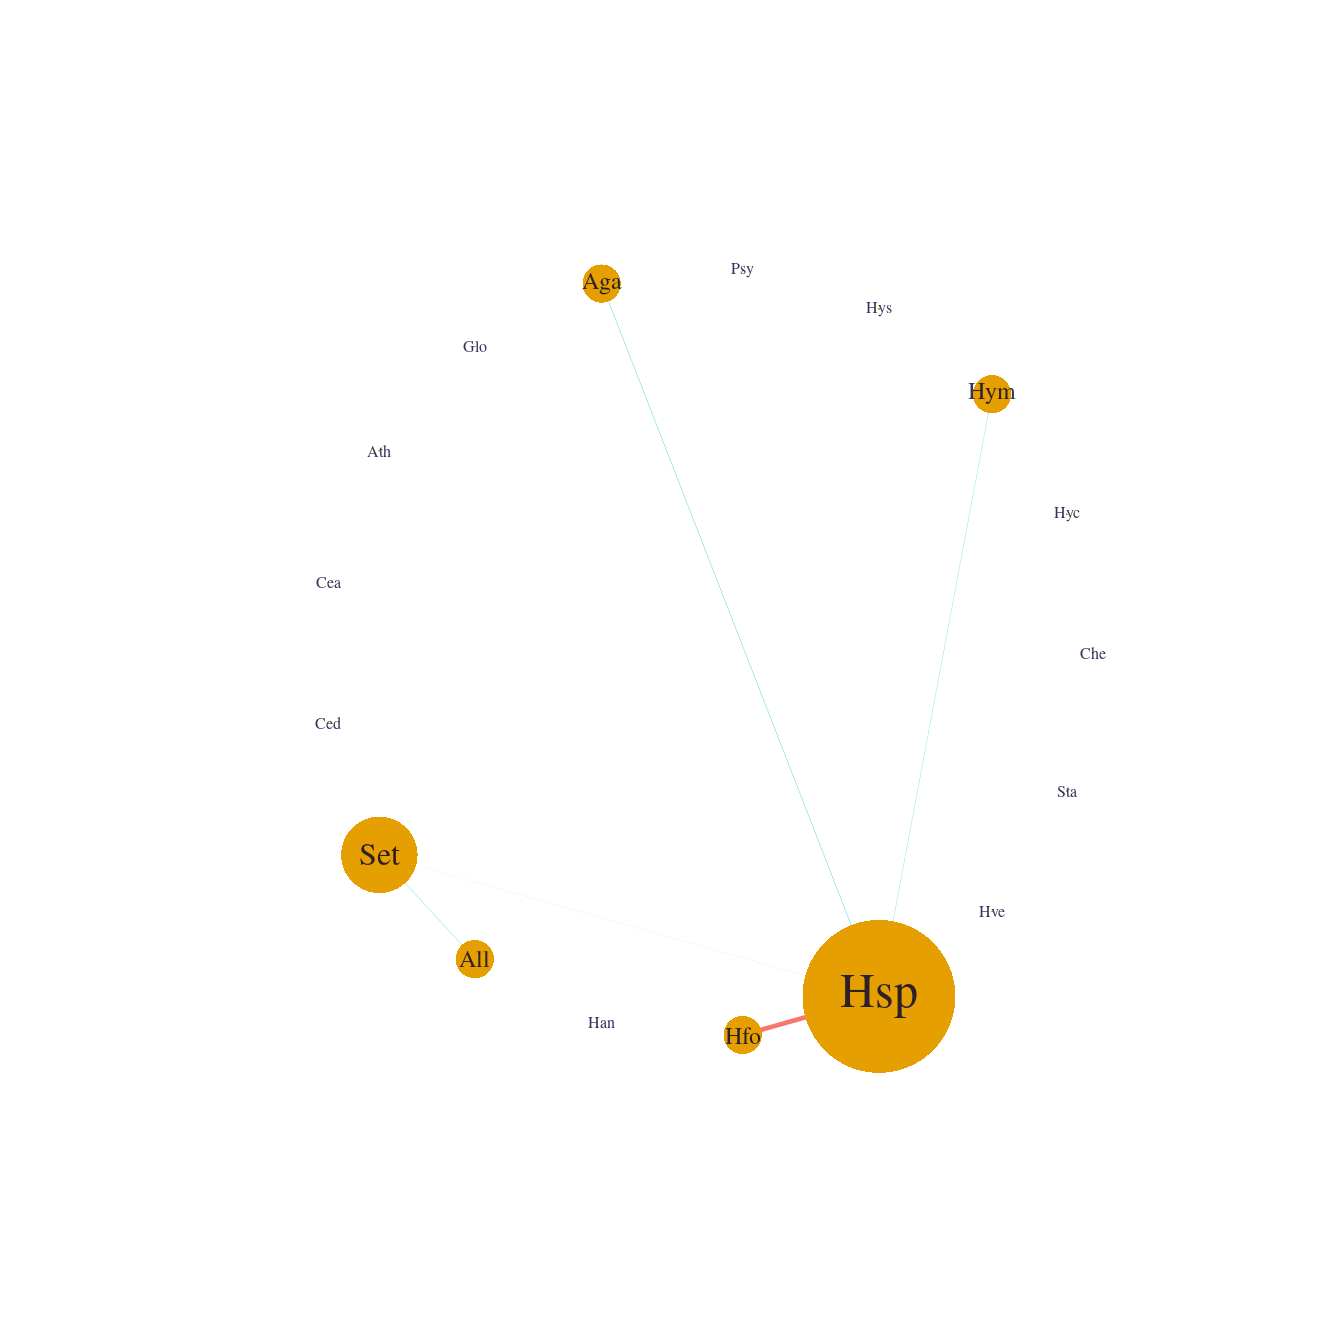
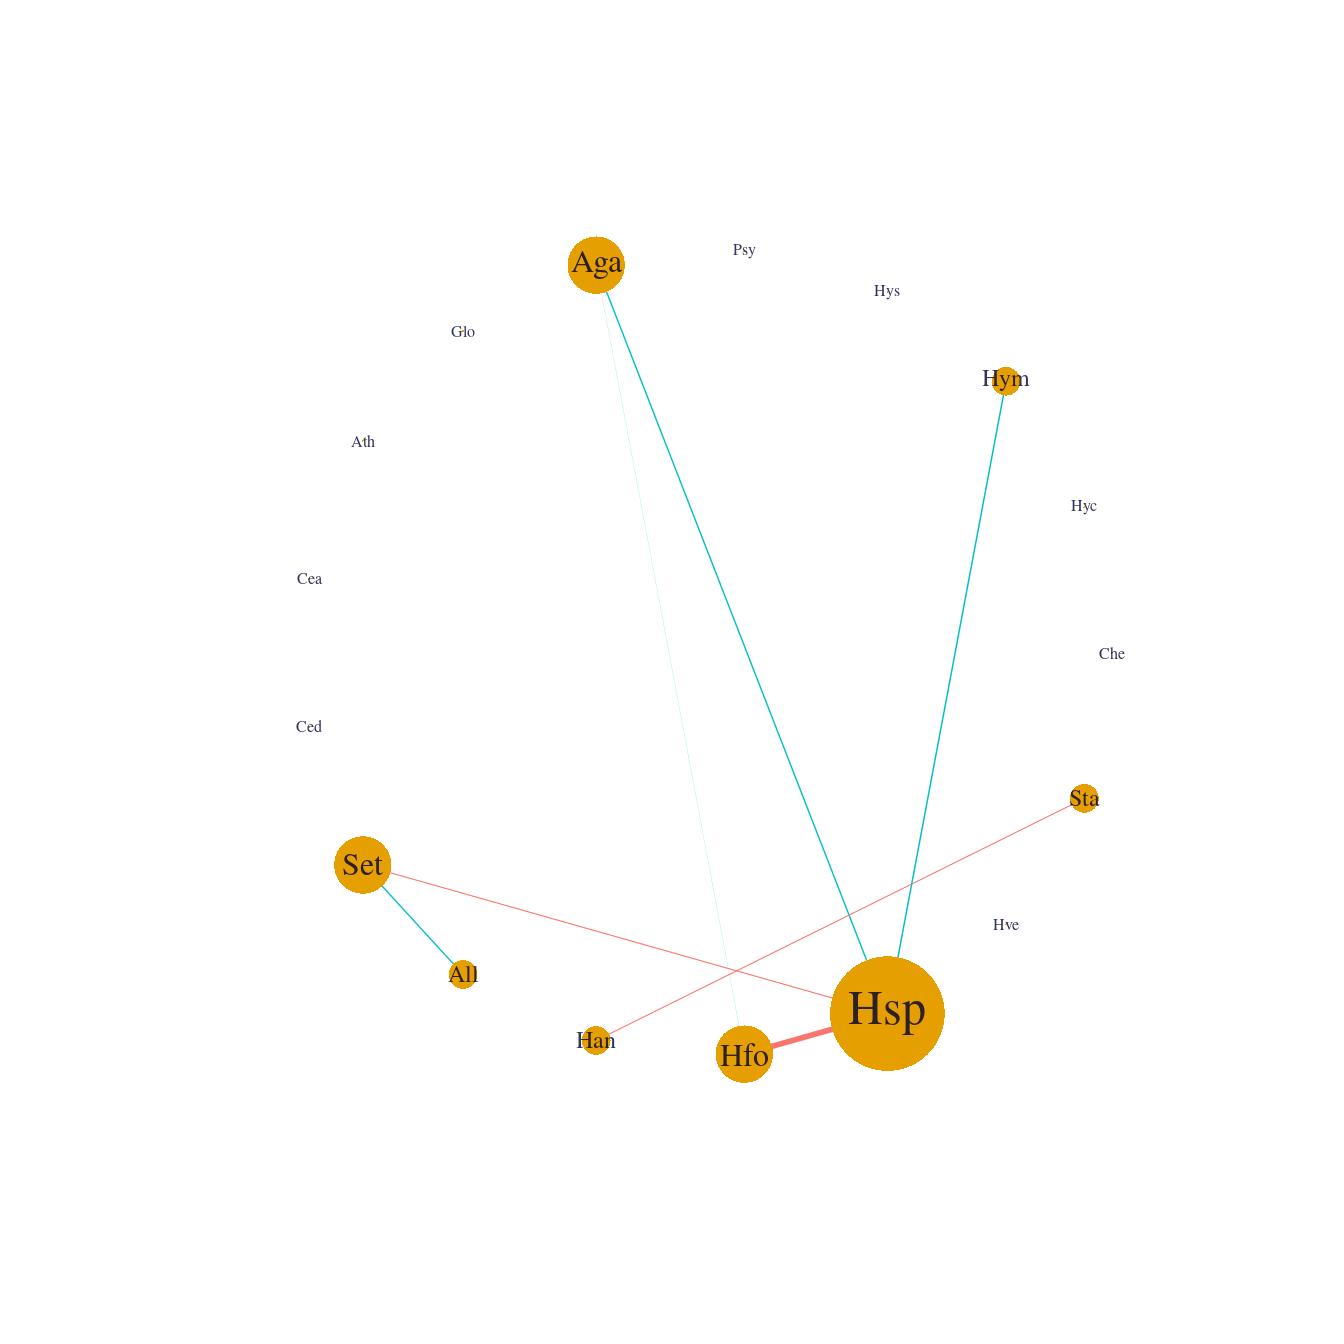
updated docs and bump tags release

diff --git a/docs/articles/PLNnetwork.html b/docs/articles/PLNnetwork.html
@@ -31,7 +31,7 @@
       </button>
       <span class="navbar-brand">
         <a class="navbar-link" href="../index.html">PLNmodels</a>
-        <span class="version label label-default" data-toggle="tooltip" data-placement="bottom" title="Released version">0.7.0.1</span>
+        <span class="version label label-default" data-toggle="tooltip" data-placement="bottom" title="Released version">0.7.0.2</span>
       </span>
     </div>
 
@@ -102,7 +102,7 @@
       <h1>Sparse structure estimation for multivariate count data with PLN-network</h1>
                         <h4 class="author">PLN team</h4>
             
-            <h4 class="date">2019-01-31</h4>
+            <h4 class="date">2019-02-05</h4>
       
       
       <div class="hidden name"><code>PLNnetwork.Rmd</code></div>
@@ -437,12 +437,12 @@
 </h3>
 <p>The variables <code>model_BIC</code>, <code>model_StARS</code> and <code>model_pen</code> are other <code>R6Class</code> objects with class <code>PLNnetworkfit</code>. They all inherits from the class <code>PLNfit</code> and thus own all its methods, with a couple of specific one, mostly for network vizualization purposes. Most fields and methods are recalled when such an object is printed:</p>
 <div class="sourceCode" id="cb17"><pre class="sourceCode r"><code class="sourceCode r"><a class="sourceLine" id="cb17-1" data-line-number="1">model_StARS</a></code></pre></div>
-<pre><code>## Poisson Lognormal with sparse inverse covariance (penalty = 0.805)
+<pre><code>## Poisson Lognormal with sparse inverse covariance (penalty = 0.634)
 ## ==================================================================
-##  degrees_freedom    loglik       BIC       ICL R_squared n_edges     EBIC
-##               22 -1181.992 -1224.802 -2509.354 0.9639262       5 -1233.06
+##  degrees_freedom    loglik       BIC       ICL R_squared n_edges      EBIC
+##               24 -1174.372 -1221.074 -2505.628 0.9639259       7 -1231.458
 ##  pen_loglik    density
-##   -1185.569 0.03460208
+##   -1177.467 0.04844291
 ## ==================================================================
 ## * Useful fields 
 ##     $model_par, $latent, $var_par, $optim_par 
@@ -459,12 +459,12 @@
 <p>Here, an igraph object can be recovered.</p>
 <div class="sourceCode" id="cb20"><pre class="sourceCode r"><code class="sourceCode r"><a class="sourceLine" id="cb20-1" data-line-number="1">my_graph &lt;-<span class="st"> </span><span class="kw"><a href="https://www.rdocumentation.org/packages/graphics/topics/plot">plot</a></span>(model_StARS, <span class="dt">plot =</span> <span class="ot">FALSE</span>)</a>
 <a class="sourceLine" id="cb20-2" data-line-number="2">my_graph</a></code></pre></div>
-<pre><code>## IGRAPH b0d09ac UNW- 17 5 -- 
+<pre><code>## IGRAPH 0ebcdd0 UNW- 17 7 -- 
 ## + attr: name (v/c), label (v/c), label.cex (v/n), size (v/n),
 ## | label.color (v/c), frame.color (v/l), weight (e/n), color (e/c),
 ## | width (e/n)
-## + edges from b0d09ac (vertex names):
-## [1] Hym--Hsp Aga--Hsp Set--All Set--Hsp Hfo--Hsp</code></pre>
+## + edges from 0ebcdd0 (vertex names):
+## [1] Hym--Hsp Aga--Hfo Aga--Hsp Set--All Set--Hsp Han--Sta Hfo--Hsp</code></pre>
 <div class="sourceCode" id="cb22"><pre class="sourceCode r"><code class="sourceCode r"><a class="sourceLine" id="cb22-1" data-line-number="1"><span class="kw"><a href="https://www.rdocumentation.org/packages/graphics/topics/plot">plot</a></span>(model_BIC)</a></code></pre></div>
 <p><img src="PLNnetwork_files/figure-html/partial_corr_network-1.png" width="672"></p>
 <div class="sourceCode" id="cb23"><pre class="sourceCode r"><code class="sourceCode r"><a class="sourceLine" id="cb23-1" data-line-number="1"><span class="kw"><a href="https://www.rdocumentation.org/packages/graphics/topics/plot">plot</a></span>(model_StARS)</a></code></pre></div>

diff --git a/docs/index.html b/docs/index.html
@@ -35,7 +35,7 @@
       </button>
       <span class="navbar-brand">
         <a class="navbar-link" href="index.html">PLNmodels</a>
-        <span class="version label label-default" data-toggle="tooltip" data-placement="bottom" title="Released version">0.7.0.1</span>
+        <span class="version label label-default" data-toggle="tooltip" data-placement="bottom" title="Released version">0.7.0.2</span>
       </span>
     </div>
 
@@ -167,9 +167,9 @@
 <ul>
 <li>For the last tagged release, use</li>
 </ul>
-<div class="sourceCode" id="cb7"><pre class="sourceCode r"><code class="sourceCode r"><a class="sourceLine" id="cb7-1" data-line-number="1">devtools<span class="op">::</span><span class="kw"><a href="https://www.rdocumentation.org/packages/devtools/topics/reexports">install_github</a></span>(<span class="st">"jchiquet/PLNmodels@v0.7.0.1"</span>)</a></code></pre></div>
+<div class="sourceCode" id="cb7"><pre class="sourceCode r"><code class="sourceCode r"><a class="sourceLine" id="cb7-1" data-line-number="1">devtools<span class="op">::</span><span class="kw"><a href="https://www.rdocumentation.org/packages/devtools/topics/reexports">install_github</a></span>(<span class="st">"jchiquet/PLNmodels@v0.7.0.2"</span>)</a></code></pre></div>
 <ul>
-<li><p>Windows users may want to use <a href="https://github.com/jchiquet/PLNmodels/releases/download/v0.7.0.1/PLNmodels_0.7.0.1.zip">the binary version of the package</a></p></li>
+<li><p>Windows users may want to use <a href="https://github.com/jchiquet/PLNmodels/releases/download/v0.7.0.2/PLNmodels_0.7.0.2.zip">the binary version of the package</a></p></li>
 <li><p>For the development version, use</p></li>
 </ul>
 <div class="sourceCode" id="cb8"><pre class="sourceCode r"><code class="sourceCode r"><a class="sourceLine" id="cb8-1" data-line-number="1">devtools<span class="op">::</span><span class="kw"><a href="https://www.rdocumentation.org/packages/devtools/topics/reexports">install_github</a></span>(<span class="st">"jchiquet/PLNmodels"</span>)</a></code></pre></div>

diff --git a/docs/articles/PLNLDA.html b/docs/articles/PLNLDA.html
@@ -31,7 +31,7 @@
       </button>
       <span class="navbar-brand">
         <a class="navbar-link" href="../index.html">PLNmodels</a>
-        <span class="version label label-default" data-toggle="tooltip" data-placement="bottom" title="Released version">0.7.0.1</span>
+        <span class="version label label-default" data-toggle="tooltip" data-placement="bottom" title="Released version">0.7.0.2</span>
       </span>
     </div>
 
@@ -102,7 +102,7 @@
       <h1>Supervized classification of multivariate count table with the Poisson discriminant Analysis</h1>
                         <h4 class="author">PLN team</h4>
             
-            <h4 class="date">2019-01-31</h4>
+            <h4 class="date">2019-02-05</h4>
       
       
       <div class="hidden name"><code>PLNLDA.Rmd</code></div>

diff --git a/docs/articles/article/PLNmodels.html b/docs/articles/article/PLNmodels.html
@@ -32,7 +32,7 @@
       </button>
       <span class="navbar-brand">
         <a class="navbar-link" href="../../index.html">PLNmodels</a>
-        <span class="version label label-default" data-toggle="tooltip" data-placement="bottom" title="Released version">0.7.0.1</span>
+        <span class="version label label-default" data-toggle="tooltip" data-placement="bottom" title="Released version">0.7.0.2</span>
       </span>
     </div>
 
@@ -107,7 +107,7 @@
             <address class="author_afil">
       MaIAGE, INRA<br><h4 class="author">Stéphane Robin</h4>
             <address class="author_afil">
-      MIA Paris, INRA<br><h4 class="date">2019-01-31</h4>
+      MIA Paris, INRA<br><h4 class="date">2019-02-05</h4>
       
       
       <div class="hidden name"><code>PLNmodels.Rmd</code></div>

diff --git a/docs/articles/PLN.html b/docs/articles/PLN.html
@@ -31,7 +31,7 @@
       </button>
       <span class="navbar-brand">
         <a class="navbar-link" href="../index.html">PLNmodels</a>
-        <span class="version label label-default" data-toggle="tooltip" data-placement="bottom" title="Released version">0.7.0.1</span>
+        <span class="version label label-default" data-toggle="tooltip" data-placement="bottom" title="Released version">0.7.0.2</span>
       </span>
     </div>
 
@@ -103,7 +103,7 @@
       <h1>Analyzing multivariate count data with the Poisson log-normal model</h1>
                         <h4 class="author">PLN team</h4>
             
-            <h4 class="date">2019-01-31</h4>
+            <h4 class="date">2019-02-05</h4>
       
       
       <div class="hidden name"><code>PLN.Rmd</code></div>

diff --git a/docs/articles/PLNPCA.html b/docs/articles/PLNPCA.html
@@ -31,7 +31,7 @@
       </button>
       <span class="navbar-brand">
         <a class="navbar-link" href="../index.html">PLNmodels</a>
-        <span class="version label label-default" data-toggle="tooltip" data-placement="bottom" title="Released version">0.7.0.1</span>
+        <span class="version label label-default" data-toggle="tooltip" data-placement="bottom" title="Released version">0.7.0.2</span>
       </span>
     </div>
 
@@ -102,7 +102,7 @@
       <h1>Dimension reduction of multivariate count data with PLN-PCA</h1>
                         <h4 class="author">PLN team</h4>
             
-            <h4 class="date">2019-01-31</h4>
+            <h4 class="date">2019-02-05</h4>
       
       
       <div class="hidden name"><code>PLNPCA.Rmd</code></div>

diff --git a/docs/articles/Trichoptera.html b/docs/articles/Trichoptera.html
@@ -31,7 +31,7 @@
       </button>
       <span class="navbar-brand">
         <a class="navbar-link" href="../index.html">PLNmodels</a>
-        <span class="version label label-default" data-toggle="tooltip" data-placement="bottom" title="Released version">0.7.0.1</span>
+        <span class="version label label-default" data-toggle="tooltip" data-placement="bottom" title="Released version">0.7.0.2</span>
       </span>
     </div>
 
@@ -102,7 +102,7 @@
       <h1>Description of the Trichoptera data set</h1>
                         <h4 class="author">PLN team</h4>
             
-            <h4 class="date">2019-01-31</h4>
+            <h4 class="date">2019-02-05</h4>
       
       
       <div class="hidden name"><code>Trichoptera.Rmd</code></div>

diff --git a/docs/articles/Import_data.html b/docs/articles/Import_data.html
@@ -31,7 +31,7 @@
       </button>
       <span class="navbar-brand">
         <a class="navbar-link" href="../index.html">PLNmodels</a>
-        <span class="version label label-default" data-toggle="tooltip" data-placement="bottom" title="Released version">0.7.0.1</span>
+        <span class="version label label-default" data-toggle="tooltip" data-placement="bottom" title="Released version">0.7.0.2</span>
       </span>
     </div>
 
@@ -102,7 +102,7 @@
       <h1>Data importation in PLNmodels</h1>
                         <h4 class="author">PLN team</h4>
             
-            <h4 class="date">2019-01-31</h4>
+            <h4 class="date">2019-02-05</h4>
       
       
       <div class="hidden name"><code>Import_data.Rmd</code></div>

diff --git a/docs/reference/PLNmodels.html b/docs/reference/PLNmodels.html
@@ -67,7 +67,7 @@ variational algorithms to fit such models accompanied with a set of functions fo
       </button>
       <span class="navbar-brand">
         <a class="navbar-link" href="../index.html">PLNmodels</a>
-        <span class="version label label-default" data-toggle="tooltip" data-placement="bottom" title="Released version">0.7.0.1</span>
+        <span class="version label label-default" data-toggle="tooltip" data-placement="bottom" title="Released version">0.7.0.2</span>
       </span>
     </div>
 

diff --git a/docs/reference/PLNnetworkfit.html b/docs/reference/PLNnetworkfit.html
@@ -67,7 +67,7 @@ See the documentation for plot.PLNnetworkfit + methods inherited from PLNfit." /
       </button>
       <span class="navbar-brand">
         <a class="navbar-link" href="../index.html">PLNmodels</a>
-        <span class="version label label-default" data-toggle="tooltip" data-placement="bottom" title="Released version">0.7.0.1</span>
+        <span class="version label label-default" data-toggle="tooltip" data-placement="bottom" title="Released version">0.7.0.2</span>
       </span>
     </div>
 

diff --git a/docs/reference/prepare_data.html b/docs/reference/prepare_data.html
@@ -66,7 +66,7 @@ a covariate data frame in the most comprehensive way and (ii) computes offsets f
       </button>
       <span class="navbar-brand">
         <a class="navbar-link" href="../index.html">PLNmodels</a>
-        <span class="version label label-default" data-toggle="tooltip" data-placement="bottom" title="Released version">0.7.0.1</span>
+        <span class="version label label-default" data-toggle="tooltip" data-placement="bottom" title="Released version">0.7.0.2</span>
       </span>
     </div>
 

diff --git a/docs/reference/PLNfit.html b/docs/reference/PLNfit.html
@@ -71,7 +71,7 @@ Fields are accessed via active binding and cannot be changed by the user." />
       </button>
       <span class="navbar-brand">
         <a class="navbar-link" href="../index.html">PLNmodels</a>
-        <span class="version label label-default" data-toggle="tooltip" data-placement="bottom" title="Released version">0.7.0.1</span>
+        <span class="version label label-default" data-toggle="tooltip" data-placement="bottom" title="Released version">0.7.0.2</span>
       </span>
     </div>
 
